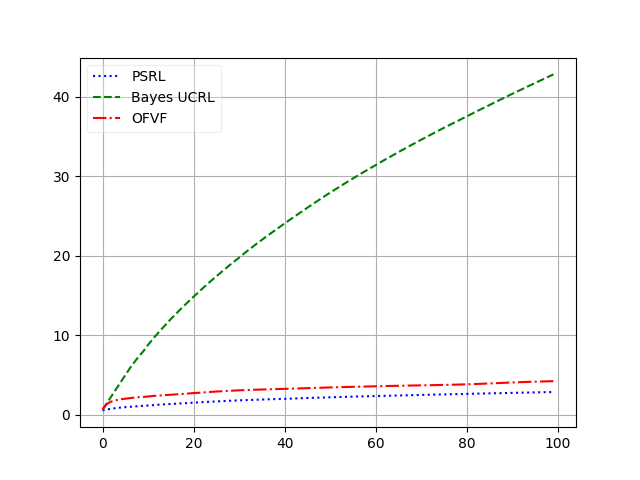
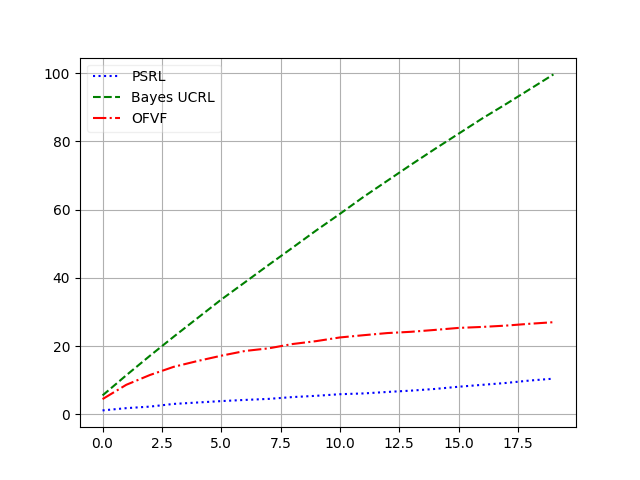
worst-case, violations etc. implementation & plot

diff --git a/python_experiments/chain_mdp_experiment.py b/python_experiments/chain_mdp_experiment.py
@@ -10,6 +10,7 @@ import pickle
 import datetime
 import itertools
 
+# cd /home/reazul/PhD_Research/Bayesian_Exploration/Codes/Bayes_explore/bayesian_exploration/python_experiments
 
 """
 **** RiverSwim MDP problem, described in Osband2013 paper
@@ -25,10 +26,10 @@ year = {2013}
 if __name__ == "__main__":
     confidence = 0.9
     num_actions = 2
-    discount_factor = 0.9
-    num_bayes_samples = 30
-    num_episodes = 20
-    num_runs = 10
+    discount_factor = 0.99
+    num_bayes_samples = 100
+    num_episodes = 500
+    num_runs = 50
     horizon = 10
     num_states = 6
     states = np.arange(num_states)
@@ -61,28 +62,92 @@ if __name__ == "__main__":
         
     #print(true_mdp.to_json())
     true_solution = true_mdp.solve_mpi()
+    
+    with open('dumped_results/truesolution','wb') as fp:
+        pickle.dump(true_solution.valuefunction, fp)
+    
     print("true_solution", true_solution)
 
 ### Run Experiments
 if __name__ == "__main__":
     #print("executing UCRL2...")
-    #regret_ucrl = UCRL2(num_states, num_actions, num_states, transitions, rewards, discount_factor, num_episodes, num_runs, true_solution)
+    #worst_regret_ucrl, avg_regret_ucrl = UCRL2(num_states, num_actions, num_states, transitions, rewards, discount_factor, num_episodes, num_runs, true_solution)
     print("executing PSRL...")
-    regret_psrl = PSRL(num_states, num_actions, num_states, transitions, rewards, discount_factor, num_episodes, num_runs, true_solution)
-    print("executing Bayes UCRL...")
-    regret_bayes_ucrl =  BayesUCRL(num_states, num_actions, num_states, transitions, rewards, discount_factor, confidence, num_bayes_samples, num_episodes, num_runs, true_solution)
-    print("executing OFVF...")
-    regret_ofvf = Optimism_VF(num_states, num_actions, num_states, transitions, rewards, discount_factor, confidence, num_bayes_samples, num_episodes, num_runs, true_solution)
+    worst_regret_psrl, avg_regret_psrl = PSRL(num_states, num_actions, num_states, transitions, rewards, discount_factor, num_episodes, num_runs, true_solution)
+    with open('dumped_results/worst_regret_psrl','wb') as fp:
+        pickle.dump(worst_regret_psrl, fp)
+    with open('dumped_results/avg_regret_psrl','wb') as fp:
+        pickle.dump(worst_regret_psrl, fp)
     
-### Plot results
+    
+    print("executing Bayes UCRL...")
+    worst_regret_bayes_ucrl, avg_regret_bayes_ucrl =  BayesUCRL(num_states, num_actions, num_states, transitions, rewards, discount_factor, confidence, num_bayes_samples, num_episodes, num_runs, true_solution)
+    with open('dumped_results/worst_regret_bayes_ucrl','wb') as fp:
+        pickle.dump(worst_regret_bayes_ucrl, fp)
+    with open('dumped_results/avg_regret_bayes_ucrl','wb') as fp:
+        pickle.dump(avg_regret_bayes_ucrl, fp)
+    
+    
+    print("executing OFVF...")
+    worst_regret_ofvf, avg_regret_ofvf,  violations, confidences = Optimism_VF(num_states, num_actions, num_states, transitions, rewards, discount_factor, confidence, num_bayes_samples, num_episodes, num_runs, true_solution)
+    with open('dumped_results/worst_regret_ofvf','wb') as fp:
+        pickle.dump(worst_regret_ofvf, fp)
+    with open('dumped_results/avg_regret_ofvf','wb') as fp:
+        pickle.dump(avg_regret_ofvf, fp)
+    with open('dumped_results/violations_ofvf','wb') as fp:
+        pickle.dump(violations, fp)
+    with open('dumped_results/confidences_ofvf','wb') as fp:
+        pickle.dump(confidences, fp)
+    
+### Plot worst case results
 if __name__ == "__main__":
-    plt.plot(np.cumsum(regret_psrl), label="PSRL", color='b', linestyle=':')
-    #plt.plot(np.cumsum(regret_ucrl), label="UCRL", color='c', linestyle=':')
-    plt.plot(np.cumsum(regret_bayes_ucrl), label="Bayes UCRL", color='g', linestyle='--')
-    plt.plot(np.cumsum(regret_ofvf), label="OFVF", color='r', linestyle='-.')
+    plt.plot(np.cumsum(worst_regret_psrl), label="PSRL", color='b', linestyle=':')
+    #plt.plot(np.cumsum(worst_regret_ucrl), label="UCRL", color='c', linestyle=':')
+    plt.plot(np.cumsum(worst_regret_bayes_ucrl), label="Bayes UCRL", color='g', linestyle='--')
+    plt.plot(np.cumsum(worst_regret_ofvf), label="OFVF", color='r', linestyle='-.')
     plt.legend(loc='best', fancybox=True, framealpha=0.3)
+    plt.xlabel("num_episodes")
+    plt.ylabel("cumulative regret")
+    plt.title("Worst Case Regret for RiverSwim Problem")
     plt.grid()
     plt.show()
+    
+### Plot average case results
+if __name__ == "__main__":
+    plt.plot(np.cumsum(avg_regret_psrl), label="PSRL", color='b', linestyle=':')
+    #plt.plot(np.cumsum(avg_regret_ucrl), label="UCRL", color='c', linestyle=':')
+    plt.plot(np.cumsum(avg_regret_bayes_ucrl), label="Bayes UCRL", color='g', linestyle='--')
+    plt.plot(np.cumsum(avg_regret_ofvf), label="OFVF", color='r', linestyle='-.')
+    plt.legend(loc='best', fancybox=True, framealpha=0.3)
+    plt.xlabel("num_episodes")
+    plt.ylabel("cumulative regret")
+    plt.title("Average Case Regret for RiverSwim Problem")
+    plt.grid()
+    plt.show()
+
+### Plot violations
+if __name__ == "__main__":
+    plt.plot(1-np.array(violations), label="violations of OFVF", color='r', linestyle='-.')
+    plt.plot(1-np.array(confidences), label="Actual confidence", color='g', linestyle='--')
+    plt.legend(loc='best', fancybox=True, framealpha=0.3)
+    plt.xlabel("num_episodes")
+    plt.ylabel("violations")
+    plt.title("Violations")
+    plt.grid()
+    plt.show()
+
+
+
+
+
+
+
+
+
+
+
+
+
 
 
 

diff --git a/python_experiments/algorithms.py b/python_experiments/algorithms.py
@@ -80,7 +80,7 @@ def PSRL(num_states, num_actions, num_next_states, true_transitions, rewards, di
                 cur_state = next_state
                 
     #regret_psrl = np.mean(regret_psrl, axis=1)
-    return np.mean(regret_psrl, axis=0)
+    return np.amin(regret_psrl, axis=0), np.mean(regret_psrl, axis=0)
     
 def compute_bayesian_threshold(points, nominal_point, confidence_level):
     """
@@ -195,7 +195,7 @@ def BayesUCRL(num_states, num_actions, num_next_states, true_transitions, reward
                 cur_state = next_state
 
     #regret_bayes_ucrl = np.mean(regret_bayes_ucrl, axis=1)
-    return np.mean(regret_bayes_ucrl, axis=0)
+    return np.amin(regret_bayes_ucrl, axis=0), np.mean(regret_bayes_ucrl, axis=0)
     
     
 def UCRL2(num_states, num_actions, num_next_states, true_transitions, rewards, discount_factor, num_episodes, num_runs, true_solution):
@@ -299,7 +299,7 @@ def UCRL2(num_states, num_actions, num_next_states, true_transitions, rewards, d
                 cur_state = next_state
 
     #regret_ucrl = np.mean(regret_ucrl, axis=0)
-    return np.mean(regret_ucrl, axis=0)
+    return np.amin(regret_ucrl, axis=0), np.mean(regret_ucrl, axis=0)
     
 
 
@@ -376,9 +376,9 @@ def Optimism_VF(num_states, num_actions, num_next_states, true_transitions, rewa
     #num_bayes_samples = 20
     num_update = 10
     
+    confidences = []
     regret_OFVF = np.zeros( (num_runs, num_episodes) )
-    
-    #print(sa_confidence)
+    violations = np.zeros( (num_runs, num_episodes) )
     
     for m in range(num_runs):
         # Initialize uniform Dirichlet prior
@@ -390,6 +390,8 @@ def Optimism_VF(num_states, num_actions, num_next_states, true_transitions, rewa
             sampled_mdp = crobust.MDP(0, discount_factor)
             confidence = 1-1/(k+1)
             sa_confidence = 1-(1-confidence)/(num_states*num_actions) # !!! Apply union bound to compute confidence for each state-action
+            if m==0:
+                confidences.append(confidence)
             
             # Compute posterior
             posterior = posterior+samples
@@ -417,7 +419,12 @@ def Optimism_VF(num_states, num_actions, num_next_states, true_transitions, rewa
             # Compute current solution
             cur_solution = sampled_mdp.rsolve_mpi(b"optimistic_l1",np.array(thresholds)) # solve_mpi()
             
-            regret_OFVF[m,k], rsol = OFVF(num_states, num_actions, num_next_states, cur_solution[0], posterior_transition_points, num_update, sa_confidence, true_solution)
+            rsol = OFVF(num_states, num_actions, num_next_states, cur_solution[0], posterior_transition_points, num_update, sa_confidence)
+            
+            regret_OFVF[m,k] = abs(rsol[0][0] - true_solution[0][0])
+            
+            violations[m,k] = rsol[0][0] - true_solution[0][0]
+            
             rpolicy = rsol.policy
 
             samples = np.zeros((num_states, num_actions, num_next_states))
@@ -435,11 +442,13 @@ def Optimism_VF(num_states, num_actions, num_next_states, true_transitions, rewa
     #regret_OFVF = np.mean(regret_OFVF, axis=1)
     #plt.plot(np.cumsum(regret_OFVF))
     #plt.show()
+    
+    violations = np.mean(violations<0, axis=0)
+    
+    return np.amin(regret_OFVF, axis=0), np.mean(regret_OFVF, axis=0), violations, confidences
 
-    return np.mean(regret_OFVF, axis=0)
 
-
-def OFVF(num_states, num_actions, num_next_states, valuefunctions, posterior_transition_points, num_update, sa_confidence, true_solution):
+def OFVF(num_states, num_actions, num_next_states, valuefunctions, posterior_transition_points, num_update, sa_confidence):
     """
     Method to incrementally improve value function by adding the new value function with 
     previous valuefunctions, finding the nominal point & threshold for this cluster of value functions
@@ -530,11 +539,11 @@ def OFVF(num_states, num_actions, num_next_states, valuefunctions, posterior_tra
         #If the whole MDP is unchanged, meaning the new value function didn't change the uncertanty
         #set for any state-action, no need to iterate more!
         if is_mdp_unchanged or i==num_update-1:
-            print("**** Add Values *****")
-            print("MDP remains unchanged after number of iteration:",i)
-            print("rsol.valuefunction",rsol.valuefunction)  
+            #print("**** Add Values *****")
+            #print("MDP remains unchanged after number of iteration:",i)
+            #print("rsol.valuefunction",rsol.valuefunction)  
                             
-            return abs(rsol[0][0] - true_solution[0][0]), rsol
+            return rsol
         
         valuefunction = rsol.valuefunction
         valuefunctions.append(valuefunction)
